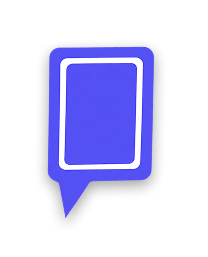
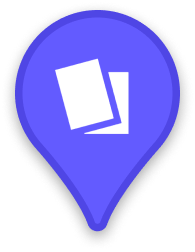
feat: 홍대점 기본 선택 및 지도 UI 개선
홈 진입 시 포켓몬 카드 자판기 홍대점 기본 선택

검색 목록과 사이드바 스크롤바 스타일 통일 및 호버 전환 효과 적용

오리파 및 자판기 마커 이미지 변경

diff --git a/src/components/PlaceSidebar.vue b/src/components/PlaceSidebar.vue
@@ -57,6 +57,11 @@ defineEmits(['close'])
   overflow-x: hidden;
   scroll-behavior: smooth;
   scrollbar-width: thin;
+  scrollbar-color: transparent transparent;
+  transition: scrollbar-color 0.4s ease;
+}
+
+.place-sidebar:hover .place-content {
   scrollbar-color: #c7cbd1 transparent;
 }
 
@@ -79,7 +84,12 @@ defineEmits(['close'])
 }
 
 .place-content::-webkit-scrollbar-thumb {
-  background: #c7cbd1;
+  background: transparent;
   border-radius: 999px;
+  transition: background-color 0.4s ease;
+}
+
+.place-sidebar:hover .place-content::-webkit-scrollbar-thumb {
+  background: #c7cbd1;
 }
 </style>

diff --git a/src/components/common/Search.vue b/src/components/common/Search.vue
@@ -301,6 +301,8 @@ onBeforeUnmount(() => {
   margin: 0;
 
   overflow-y: auto;
+  scrollbar-width: thin;
+  scrollbar-color: #c7cbd1 transparent;
   list-style: none;
 
   background: #fff;
@@ -311,6 +313,19 @@ onBeforeUnmount(() => {
   box-shadow: 0 6px 18px rgba(0, 0, 0, 0.12);
 
   z-index: 500;
+}
+
+.search-results::-webkit-scrollbar {
+  width: 6px;
+}
+
+.search-results::-webkit-scrollbar-track {
+  background: transparent;
+}
+
+.search-results::-webkit-scrollbar-thumb {
+  background: #c7cbd1;
+  border-radius: 999px;
 }
 
 .search-result-item {

diff --git a/src/pages/Map.vue b/src/pages/Map.vue
@@ -184,6 +184,17 @@ onMounted(async () => {
 
   try {
     await placeStore.fetchPlaces()
+
+    if (!placeStore.selectedPlace) {
+      const initialPlace = placeStore.places.find(
+        (place) => place.type === 'POKEMON_VENDING' && place.branchName?.trim() === '홍대점',
+      )
+
+      if (initialPlace) {
+        placeStore.selectPlace(initialPlace)
+      }
+    }
+
     await loadNaverMapScript()
 
     initMap()
